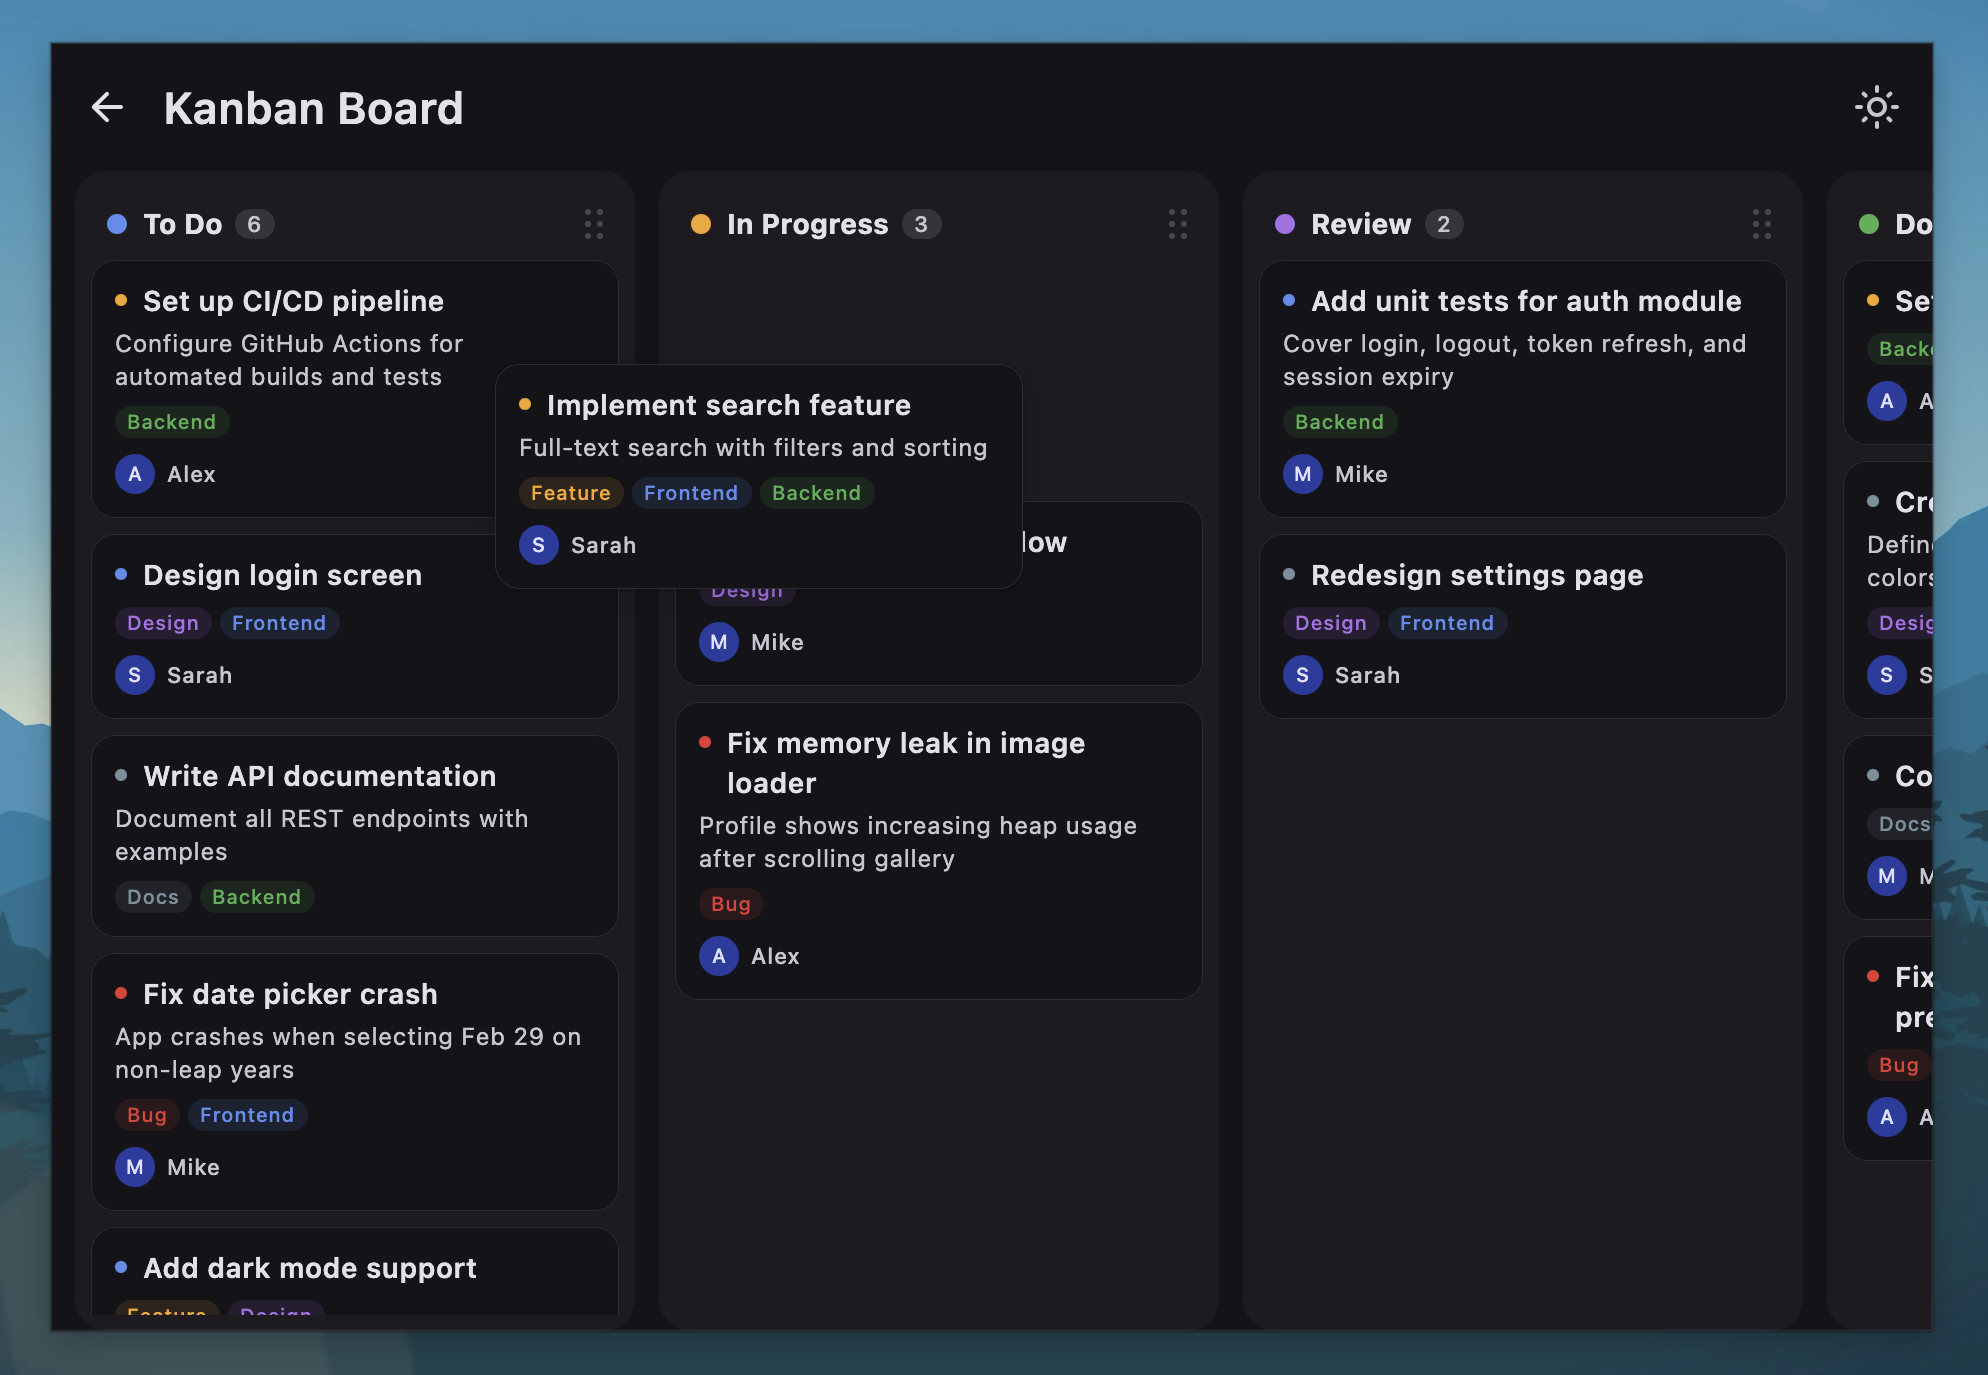
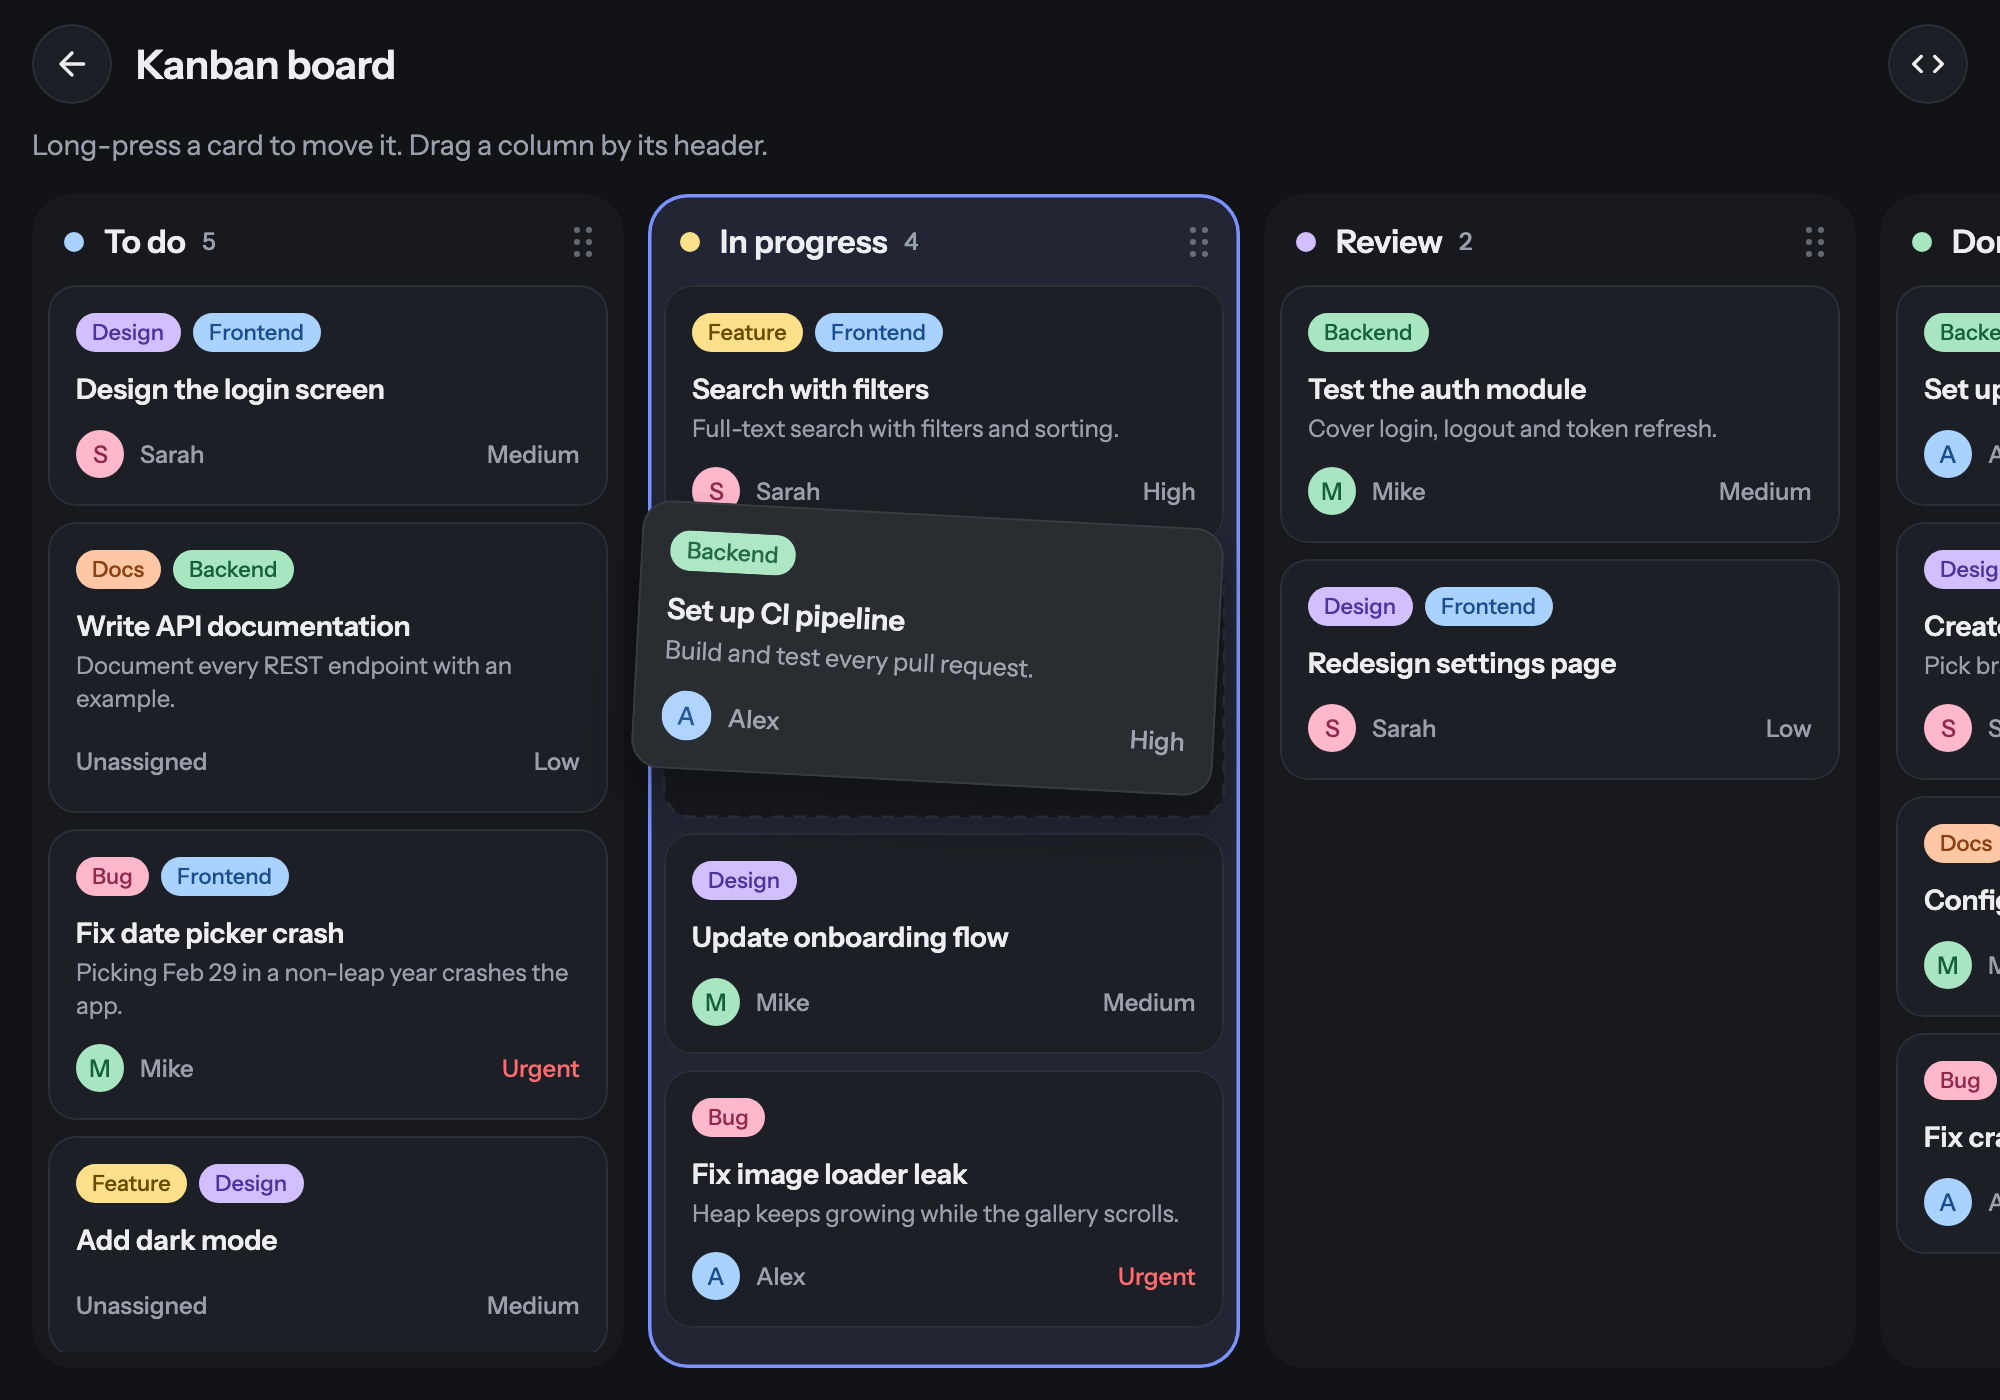
docs: refresh the home and Kanban stills from the current sample
They are rendered by the same scripted recorder as the clips.

Changed region(s): [[0.0, 0.0, 1.0, 1.0], [0.8421, 0.336, 0.9044, 0.3665], [0.8732, 0.5193, 0.9044, 0.5498]]

diff --git a/sample/common/src/desktopTest/kotlin/recordings/Recorder.kt b/sample/common/src/desktopTest/kotlin/recordings/Recorder.kt
@@ -27,7 +27,9 @@ import androidx.compose.runtime.setValue
 import androidx.compose.ui.Modifier
 import androidx.compose.ui.geometry.Offset
 import androidx.compose.ui.graphics.Color
+import androidx.compose.ui.graphics.ImageBitmap
 import androidx.compose.ui.graphics.drawscope.Stroke
+import androidx.compose.ui.graphics.toAwtImage
 import androidx.compose.ui.platform.LocalDensity
 import androidx.compose.ui.test.ComposeUiTest
 import androidx.compose.ui.test.ExperimentalTestApi
@@ -43,6 +45,7 @@ import java.io.File
 import java.io.OutputStream
 import java.nio.ByteBuffer
 import java.nio.ByteOrder
+import javax.imageio.ImageIO
 import theme.AppTheme
 
 /**
@@ -64,6 +67,8 @@ object Recorder {
     const val Scale = 2
 
     /**
+     * Records [script] to `name.mp4`.
+     *
      * @param width Width of the screen in dp.
      * @param height Height of the screen in dp.
      */
@@ -74,6 +79,31 @@ object Recorder {
         dark: Boolean = true,
         content: @Composable () -> Unit,
         script: Clip.() -> Unit,
+    ) = run(name, width, height, dark, showPointer = true, content, script) { file, widthPx, heightPx ->
+        VideoEncoder(File(file.path + ".mp4"), widthPx, heightPx)
+    }
+
+    /** Saves the screen as it is at the end of [script] to `name.png`, e.g. with an item held mid-drag. */
+    fun still(
+        name: String,
+        width: Int,
+        height: Int,
+        dark: Boolean = true,
+        content: @Composable () -> Unit,
+        script: Clip.() -> Unit = {},
+    ) = run(name, width, height, dark, showPointer = false, content, script) { file, _, _ ->
+        LastFrame(File(file.path + ".png"))
+    }
+
+    private fun run(
+        name: String,
+        width: Int,
+        height: Int,
+        dark: Boolean,
+        showPointer: Boolean,
+        content: @Composable () -> Unit,
+        script: Clip.() -> Unit,
+        sink: (file: File, widthPx: Int, heightPx: Int) -> FrameSink,
     ) {
         if (outDir == null) return
         if (only != null && name !in only) return
@@ -88,7 +118,7 @@ object Recorder {
                     AppTheme(initialDarkTheme = dark) {
                         Box(Modifier.fillMaxSize()) {
                             content()
-                            PointerOverlay(pointer, dark)
+                            if (showPointer) PointerOverlay(pointer, dark)
                         }
                     }
                 }
@@ -97,15 +127,15 @@ object Recorder {
             mainClock.advanceTimeBy(1500)
             mainClock.autoAdvance = false
 
-            val encoder = Encoder(File(outDir, "$name.mp4"), widthPx, heightPx)
+            val frames = sink(File(outDir, name), widthPx, heightPx)
             try {
-                Clip(this, pointer, encoder, Offset(widthPx.toFloat(), heightPx.toFloat())).apply {
+                Clip(this, pointer, frames, Offset(widthPx.toFloat(), heightPx.toFloat())).apply {
                     pause(400)
                     script()
                     pause(900)
                 }
             } finally {
-                encoder.close()
+                frames.close()
             }
         }
     }
@@ -131,12 +161,35 @@ private fun PointerOverlay(pointer: PointerState, dark: Boolean) {
     }
 }
 
+/** Where the frames of a script go. */
+internal interface FrameSink {
+    fun write(image: ImageBitmap)
+
+    fun close()
+}
+
+/** Keeps the last frame only, as a PNG. */
+internal class LastFrame(
+    private val file: File
+) : FrameSink {
+    private var last: ImageBitmap? = null
+
+    override fun write(image: ImageBitmap) {
+        last = image
+    }
+
+    override fun close() {
+        val image = checkNotNull(last) { "No frame to save to ${file.name}" }
+        ImageIO.write(image.toAwtImage(), "png", file)
+    }
+}
+
 /** Pipes raw frames to ffmpeg. */
-internal class Encoder(
+internal class VideoEncoder(
     file: File,
     private val width: Int,
     private val height: Int
-) {
+) : FrameSink {
     private val process = ProcessBuilder(
         "ffmpeg", "-y", "-loglevel", "error",
         "-f", "rawvideo", "-pix_fmt", "bgra", "-s", "${width}x$height", "-r", "30", "-i", "-",
@@ -147,7 +200,7 @@ internal class Encoder(
     private val pixels = IntArray(width * height)
     private val bytes = ByteBuffer.allocate(width * height * 4).order(ByteOrder.LITTLE_ENDIAN)
 
-    fun write(image: androidx.compose.ui.graphics.ImageBitmap) {
+    override fun write(image: ImageBitmap) {
         check(image.width == width && image.height == height) { "Unexpected frame ${image.width}x${image.height}" }
         image.readPixels(pixels)
         bytes.clear()
@@ -155,7 +208,7 @@ internal class Encoder(
         input.write(bytes.array())
     }
 
-    fun close() {
+    override fun close() {
         input.close()
         check(process.waitFor() == 0) { "ffmpeg failed" }
     }
@@ -166,7 +219,7 @@ internal class Encoder(
 class Clip internal constructor(
     private val test: ComposeUiTest,
     private val pointer: PointerState,
-    private val encoder: Encoder,
+    private val encoder: FrameSink,
     /** Size of the screen in px. */
     val size: Offset,
 ) {

diff --git a/sample/common/src/desktopTest/kotlin/recordings/AppsRecordings.kt b/sample/common/src/desktopTest/kotlin/recordings/AppsRecordings.kt
@@ -19,6 +19,7 @@ import androidx.compose.ui.geometry.Offset
 import kotlin.test.Test
 import recordings.Recorder.record
 import ui.FormBuilderScreen
+import ui.HomeScreen
 import ui.KanbanBoardScreen
 import ui.PhotoGalleryScreen
 import ui.PinnedChatsScreen
@@ -38,6 +39,16 @@ class AppsRecordings {
         dark = false,
         content = { KanbanBoardScreen {} },
     ) { moveCardsAndAColumn() }
+
+    /** The home screen and the board with a card in hand, as window-sized stills. */
+    @Test
+    fun stills() {
+        Recorder.still("thumbnail", width = 1000, height = 700, content = { HomeScreen {} })
+        Recorder.still("kanban", width = 1000, height = 700, content = { KanbanBoardScreen {} }) {
+            longPress(centerOf("Set up CI pipeline"))
+            moveTo(centerOf("Update onboarding flow") - dp(30, 20), 900)
+        }
+    }
 
     private fun Clip.moveCardsAndAColumn() {
         longPress(centerOf("Set up CI pipeline"))
